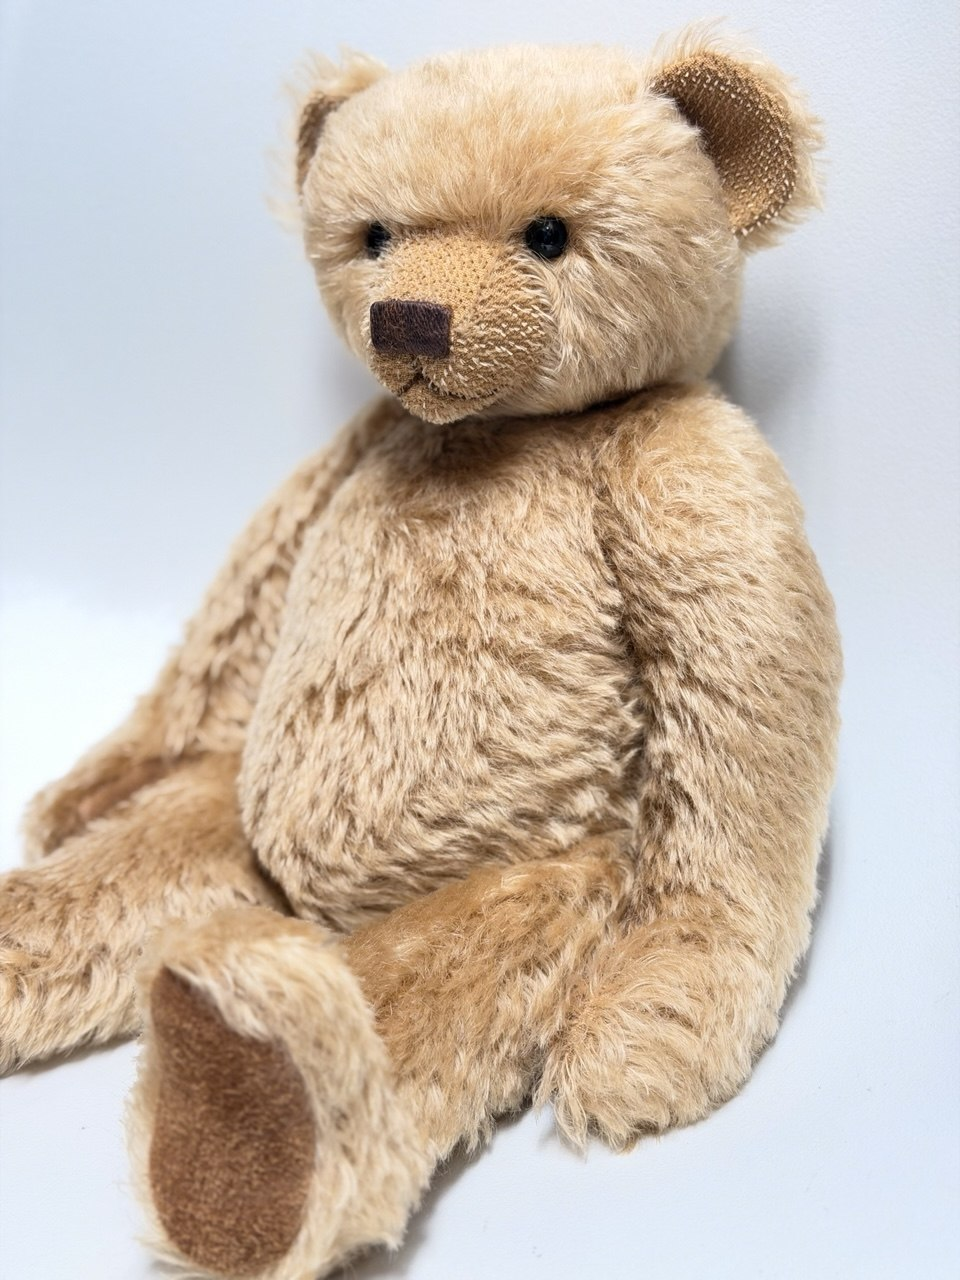
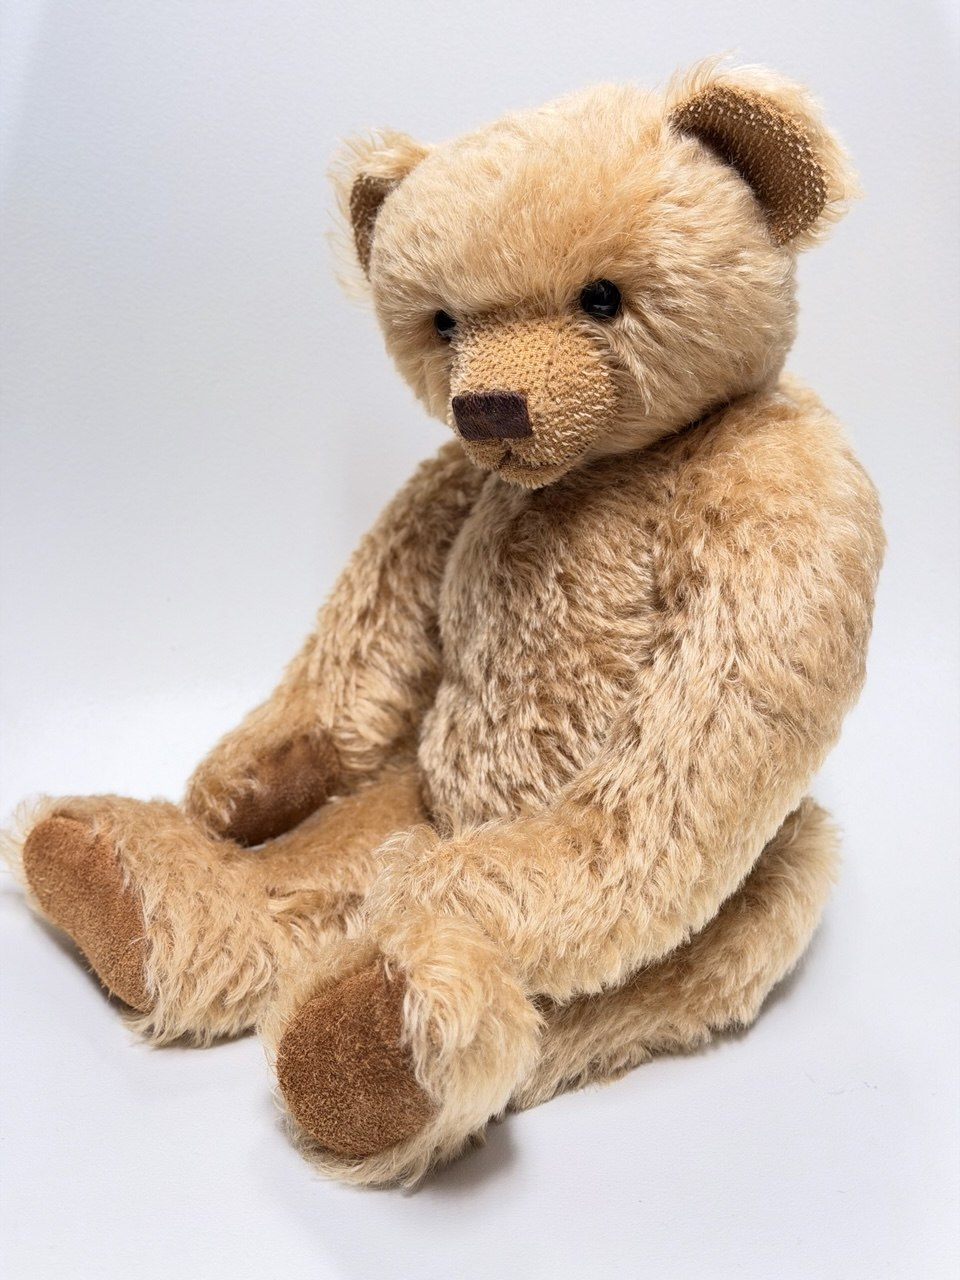
add pics

diff --git a/index.html b/index.html
@@ -613,34 +613,33 @@
 
             <hr class="gradient-line" />
 
-            <!-- Alice -->
+            <!-- Stella -->
             <div class="product-block">
                 <div class="product-images">
-                    <img src="./index_files/Alice_1.jpeg" alt="Alice Main" class="main-image">
+                    <img src="./index_files/stella_1.jpeg" alt="Stella Main" class="main-image">
                     <div class="thumbnail-row">
-                        <img src="./index_files/Alice_2.jpeg" alt="Alice 2">
-                        <img src="./index_files/Alice_3.jpeg" alt="Alice 3">
-                        <img src="./index_files/Alice_4.jpeg" alt="Alice 4">
+                        <img src="./index_files/stella_2.jpeg" alt="Stella 2">
+                        <img src="./index_files/stella_3.jpeg" alt="Stella 3">
+                        <img src="./index_files/stella_4.jpeg" alt="Stella 4">
                     </div>
                 </div>
                 <div class="product-info">
-                    <h3>Alice</h3>
+                    <h3>Stella</h3>
                     <span class="subtitle">Lady Friend</span>
                     <div class="product-tags">
                         <span class="product-tag">Loving</span>
                         <span class="product-tag">Gentle</span>
                         <span class="product-tag">Sweet</span>
                     </div>
-                    <p class="description">One-of-a-kind hand-sewn bear Alice stands 11 inch tall. Her weight is about 14.5 oz.</p>
+                    <p class="description">One-of-a-kind hand-sewn bear Stella stands 11 inch tall. Her weight is about 14.5 oz.</p>
                     <ul>
                         <li>German dense mohair and german woolvelt for paws and ears</li>
                         <li>Traditionally 5-way jointed</li>
                         <li>Stuffed with Tamarack pine shavings, glass pellets, buckwheat hulls</li>
                         <li>Embroidered nose</li>
                         <li>German glass eyes</li>
-                        <li>Silk ribbon for decoration</li>
                     </ul>
-                    <span class="price">$275 + shipping</span>
+                    <span class="price">$250 + shipping</span>
                     <div class="paypal-container">
                         <!--<img src="./index_files/thank-you.jpg" alt="Sold Out" style="width: 200px;">-->
                         <form action="https://www.paypal.com/ncp/payment/VMLPAXXV2BGFN" method="post" target="_blank">
@@ -710,7 +709,7 @@
                         <span class="product-tag">Squishy</span>
                         <span class="product-tag">Adorable</span>
                     </div>
-                    <p class="description">One-of-a-kind hand-sewn primitive teddy technique elefant Jonny stands 8 inch tall. His weight is about 11 oz. Don't see on it's own.</p>
+                    <p class="description">One-of-a-kind hand-sewn primitive teddy technique elefant Elvis stands 8 inch tall. His weight is about 11 oz. Don't see on it's own.</p>
                     <ul>
                         <li>Soviet Union vintage viscose</li>
                         <li>3-way jointed</li>
